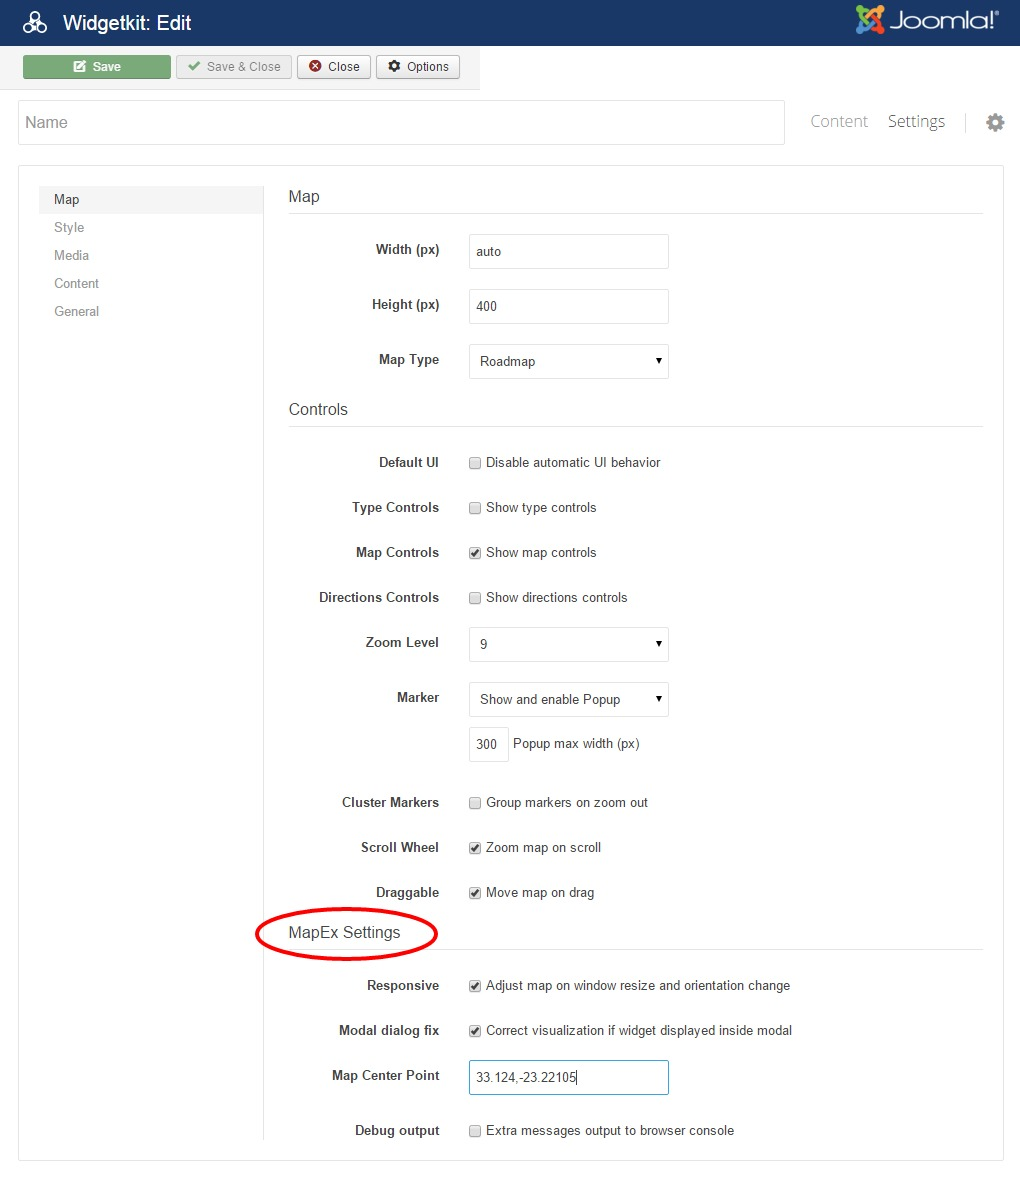
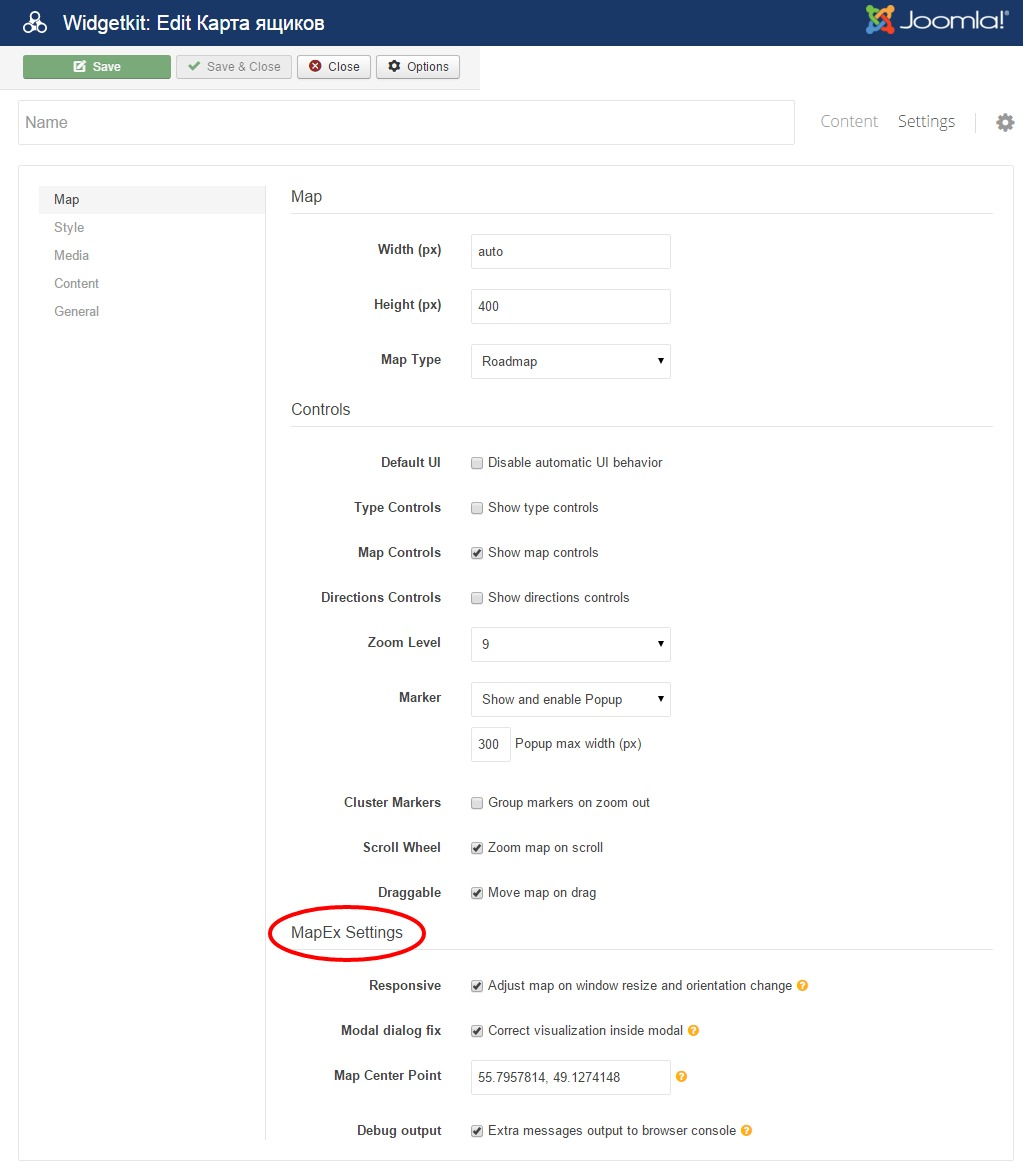
[add] tooltips integrated into widget's control panel

diff --git a/map_ex/views/edit.php b/map_ex/views/edit.php
@@ -141,28 +141,28 @@
 				<div class="uk-form-row">
                     <span class="uk-form-label">{{'Responsive' | trans}}</span>
                     <div class="uk-form-controls uk-form-controls-text">
-                        <label><input type="checkbox" ng-model="widget.data['responsive']"> {{'Adjust map on window resize and orientation change' | trans}}</label>
+                        <label><input type="checkbox" ng-model="widget.data['responsive']"> {{'Adjust map on window resize and orientation change' | trans}}<span  data-uk-tooltip title="If checked, then the map will automatically pan and zoom to the Map Center Point (see below) every time the window is resized or when orientation of the device changes (e.g. for smartphones or tablets). Note, that panning and zooming is done to the initial position of the map, i.e. if the user was interacting with the map and changed its position or zooming level, then this changes will be lost."><i class="uk-icon uk-icon-question-circle uk-margin-small-left" style="color:#ffb105"></i></span></label>
                     </div>
                 </div>
 				
 				<div class="uk-form-row">
                     <span class="uk-form-label">{{'Modal dialog fix' | trans}}</span>
                     <div class="uk-form-controls uk-form-controls-text">
-                        <label><input type="checkbox" ng-model="widget.data['modal_fix']"> {{'Correct visualization if widget displayed inside modal' | trans}}</label>
+                        <label><input type="checkbox" ng-model="widget.data['modal_fix']"> {{'Correct visualization inside modal' | trans}}<span  data-uk-tooltip title="If checked, then the widget will automatically try to find the UIKit modal dialog inside of which the MapEx is located. Then it adds some code to the webpage that displays the map correctly and fixes a corresponding problem of the original Map widget. Besides, the MapEx always resets the map to its default position and zoom level every time the modal is displayed, e.g. if the user opens a modal, changes the map position or zoom level, closes the modal and then opens the modal again, the map will be reset to its initial configuration. It's a useful feature, because the widget will always show the intended part of a map. If the check box is set and the MapEx is not inside a modal, then it doesn't affect the visualization."><i class="uk-icon uk-icon-question-circle uk-margin-small-left" style="color:#ffb105"></i></span></label>
                     </div>
                 </div>
 				
 				<div class="uk-form-row">
-                    <label class="uk-form-label" for="wk-height" title="Coordinates of a point that will be a center of the map, e.g. -34.23, 151.0023. Leave blank if not required.">{{'Map Center Point' | trans}}</label>
+                    <label class="uk-form-label" for="wk-height">{{'Map Center Point' | trans}}</label>
                     <div class="uk-form-controls">
-                        <input id="wk-height" class="uk-form-width-medium" type="text" ng-model="widget.data['map_center']">
+                        <input id="wk-height" class="uk-form-width-medium" type="text" ng-model="widget.data['map_center']"><span data-uk-tooltip title="If set (not blank), then the map will be displayed in a way that this point will be located right in the center of the map. The center point is defined by its coordinates, e.g. -34.23456, 12.15672. Leave this field blank if you don't want to have such functionality."><i class="uk-icon uk-icon-question-circle uk-margin-small-left" style="color:#ffb105"></i></span>
                     </div>
                 </div>
 				
 				<div class="uk-form-row">
                     <span class="uk-form-label">{{'Debug output' | trans}}</span>
                     <div class="uk-form-controls uk-form-controls-text">
-                        <label><input type="checkbox" ng-model="widget.data['debug_output']"> {{'Extra messages output to browser console' | trans}}</label>
+                        <label><input type="checkbox" ng-model="widget.data['debug_output']"> {{'Extra messages output to browser console' | trans}}<span data-uk-tooltip title="if checked, then the MapEx will print some debug and status information to the browser's console window. This option should be off by default and is intended to be used for investigating problems with the widget."><i class="uk-icon uk-icon-question-circle uk-margin-small-left" style="color:#ffb105"></i></span></label>
                     </div>
                 </div>
 

diff --git a/map_ex/plugin.php b/map_ex/plugin.php
@@ -85,6 +85,9 @@ return array(
 
         'init.admin' => function($event, $app) {
             $app['angular']->addTemplate('map_ex.edit', 'plugins/widgets/map_ex/views/edit.php', true);
+			//Adding tooltip:
+			$app['scripts']->add('uikit-tooltip', 'vendor/assets/uikit/js/components/tooltip.min.js', array('uikit'));
+			$app['styles']->add('uikit-tooltip', 'https://cdnjs.cloudflare.com/ajax/libs/uikit/2.24.3/css/components/tooltip.min.css', array('uikit'));
         }
 
     )
